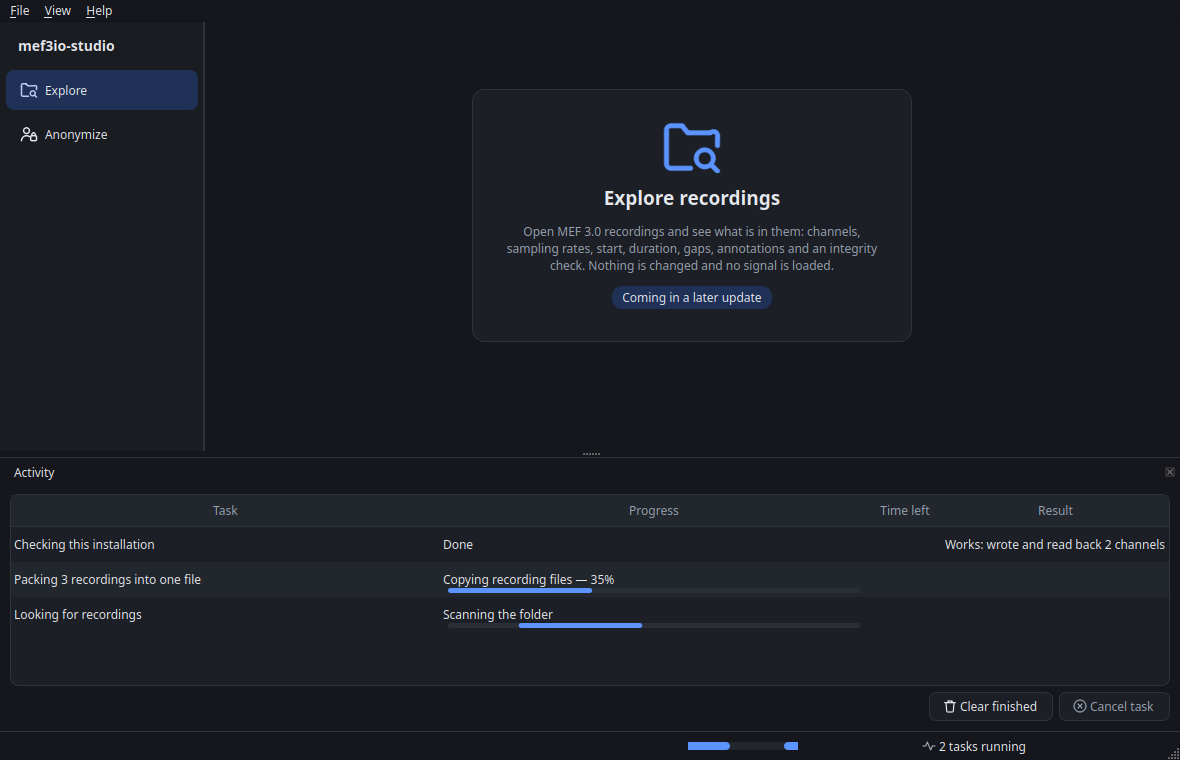
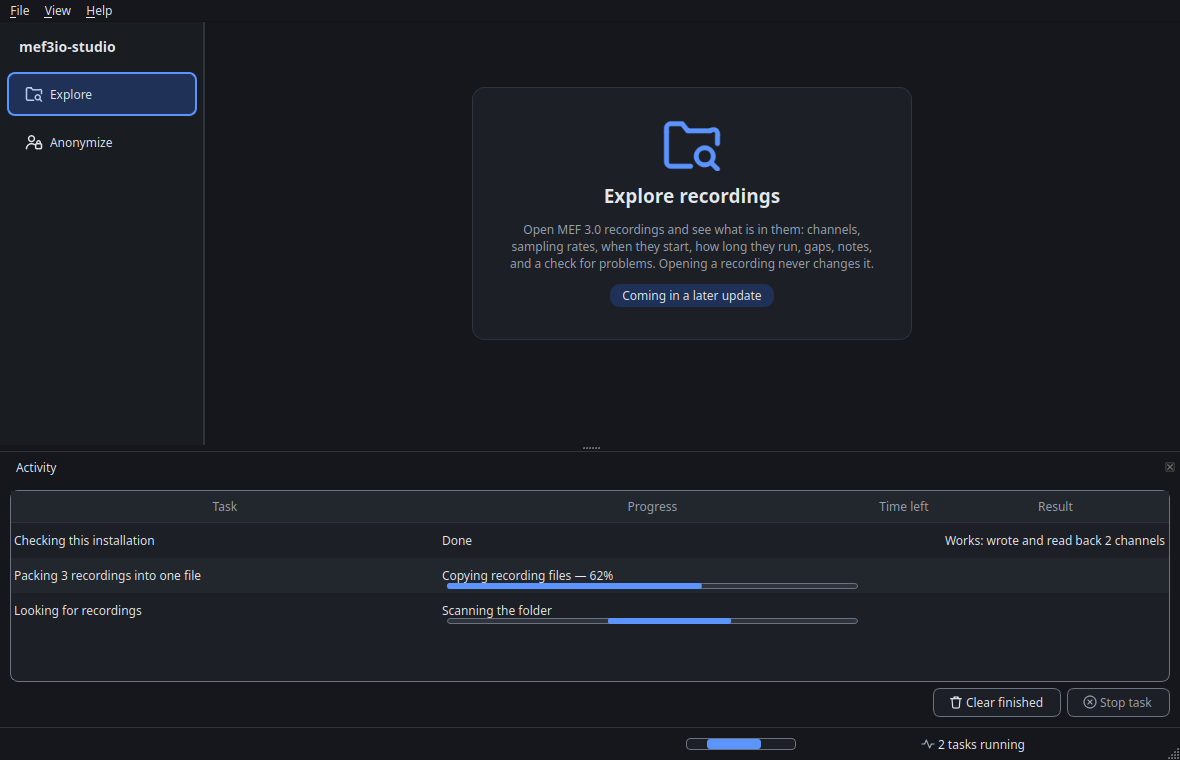
Outline the in-table progress track and refresh the screenshots
In light mode the activity table's track was filled with the row's own
background colour, so a determinate bar had no visible extent. It now has
a 3:1 outline like every other control. The screenshots show the new
theme and texts.

diff --git a/src/mef3io_studio/common/activity.py b/src/mef3io_studio/common/activity.py
@@ -17,7 +17,7 @@ from PySide6.QtCore import (
     QTimer,
     Signal,
 )
-from PySide6.QtGui import QColor, QPainter, QPainterPath
+from PySide6.QtGui import QColor, QPainter, QPainterPath, QPen
 from PySide6.QtWidgets import (
     QAbstractItemView,
     QHBoxLayout,
@@ -143,14 +143,17 @@ class ProgressDelegate(QStyledItemDelegate):
         super().paint(painter, option, index)
         if record is None or record.status.finished:
             return
-        rect = option.rect.adjusted(8, option.rect.height() - 9, -8, -4)
+        rect = option.rect.adjusted(8, option.rect.height() - 10, -8, -4)
         painter.save()
         painter.setRenderHint(QPainter.RenderHint.Antialiasing)
+        # The track: a visible outline (>= 3:1, theme.border) around a soft fill.
         track = QPainterPath()
-        track.addRoundedRect(QRectF(rect), 2.5, 2.5)
-        painter.fillPath(
-            track, QColor(self.theme.surface_alt if not self.theme.dark else "#2a2f37")
-        )
+        track.addRoundedRect(QRectF(rect).adjusted(0.5, 0.5, -0.5, -0.5), 2.5, 2.5)
+        painter.fillPath(track, QColor(self.theme.divider))
+        pen = QPen(QColor(self.theme.border))
+        pen.setWidthF(1.0)
+        painter.setPen(pen)
+        painter.drawPath(track)
         p = record.progress
         if p.determinate:
             chunk = QRectF(rect)
